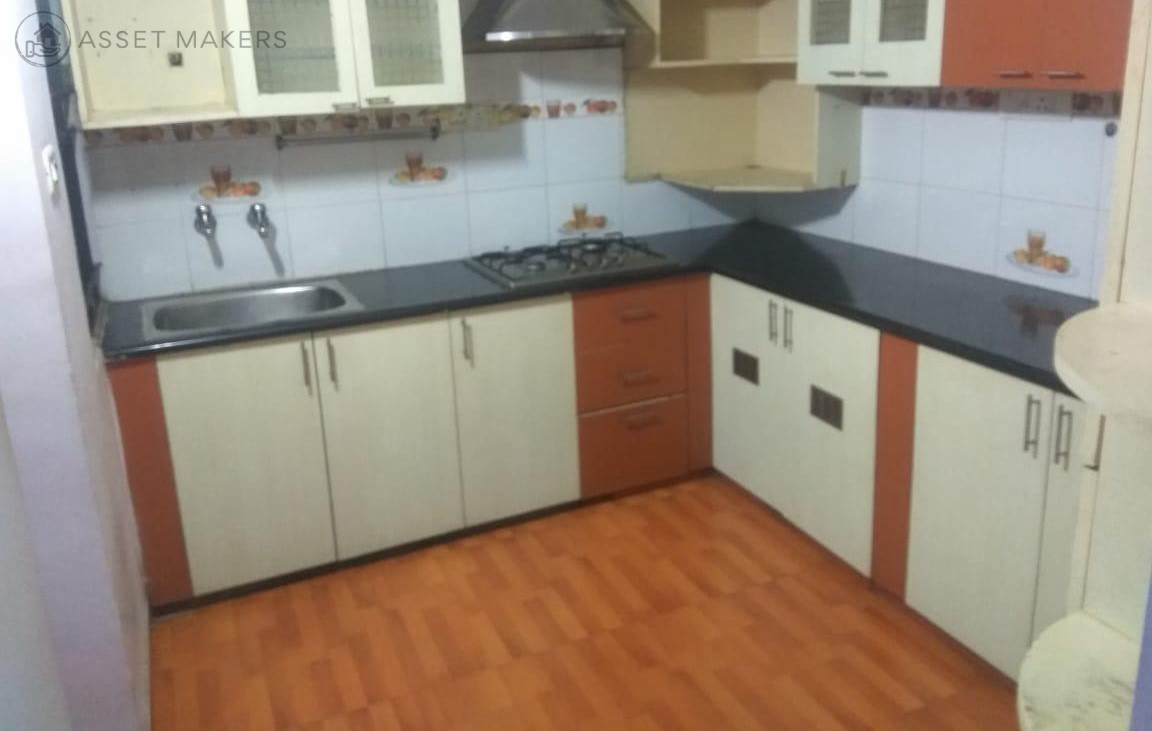
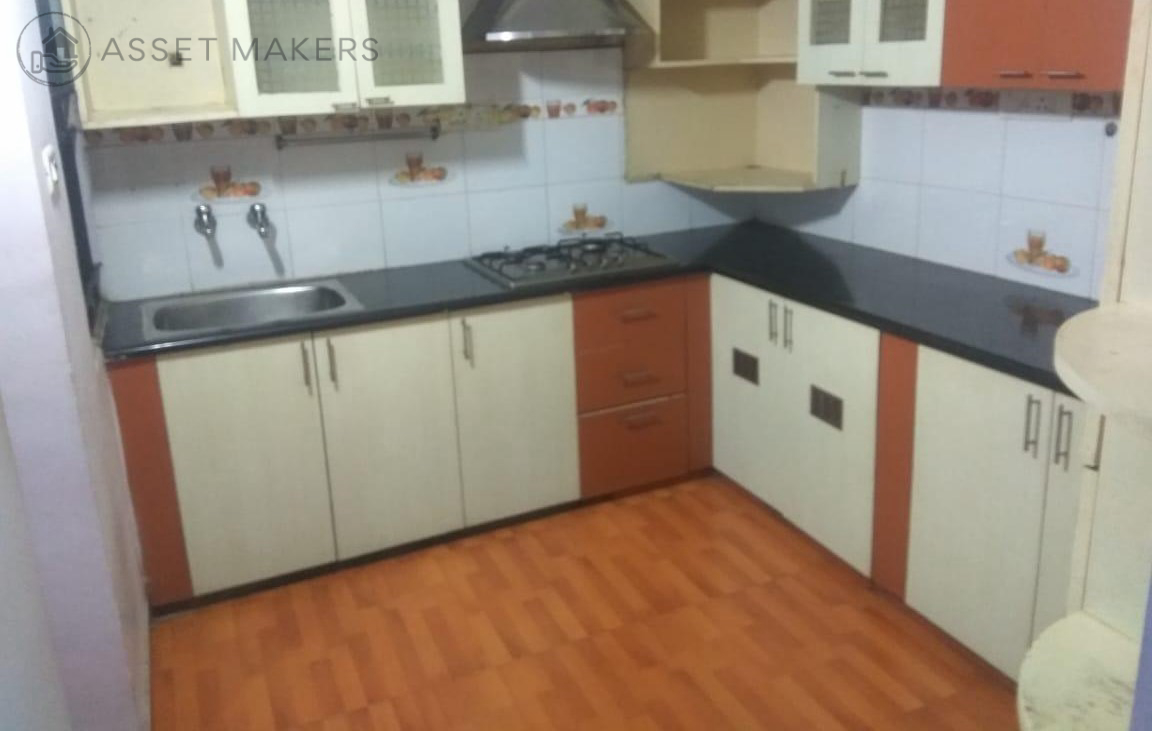
watermark Resize to / 3

Changed region(s): [[0.0, 0.0, 0.3438, 0.1204]]

diff --git a/api/middleware/multer.js b/api/middleware/multer.js
@@ -43,11 +43,7 @@ const addWatermark = async (req, res, next) => {
         const inputImage = await Jimp.read(file.path);
 
         // Resize watermark proportionally only if necessary
-        const watermarkResized = watermark.clone().resize(inputImage.bitmap.width / 4, Jimp.AUTO);
-
-        // Calculate the position to center the watermark
-        // const x = (inputImage.bitmap.width / 2) - (watermarkResized.bitmap.width / 2);
-        // const y = (inputImage.bitmap.height / 2) - (watermarkResized.bitmap.height / 2);
+        const watermarkResized = watermark.clone().resize(inputImage.bitmap.width / 3, Jimp.AUTO);
 
         // Apply watermark
         inputImage.composite(watermarkResized, 10, 10, {
